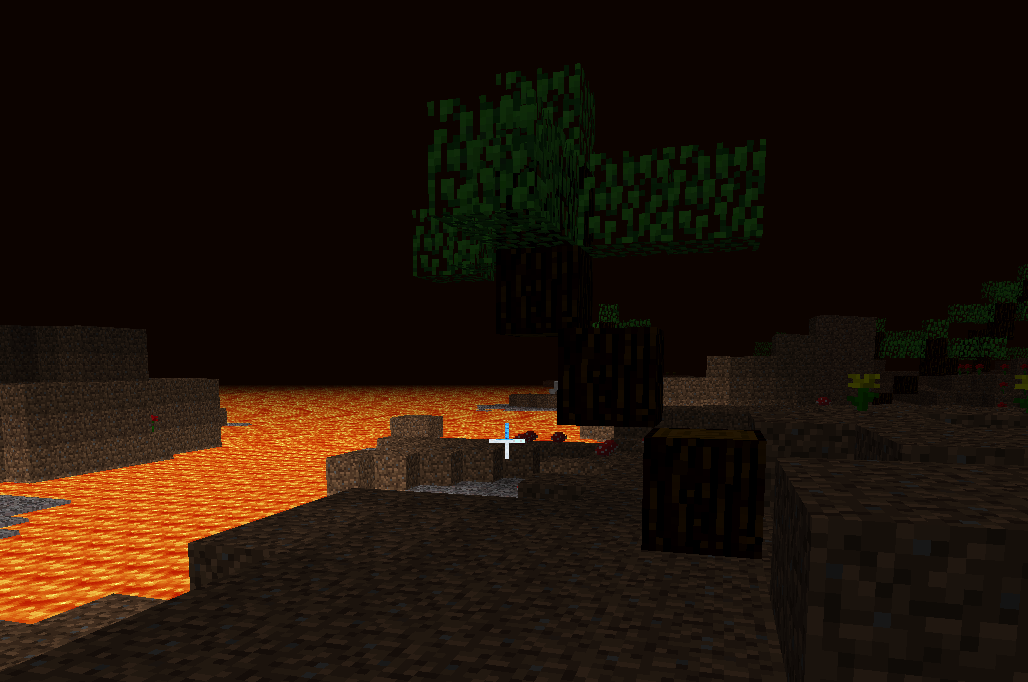
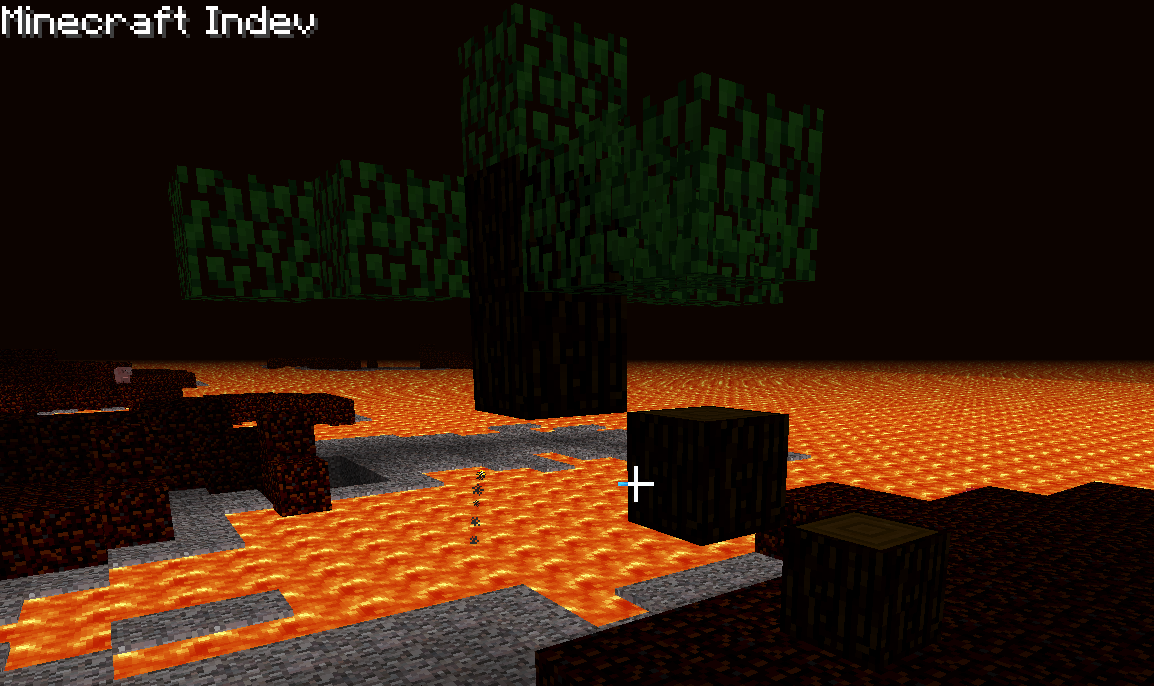
update indevx website

diff --git a/indevx/index.html b/indevx/index.html
@@ -61,11 +61,17 @@
 				- indev house removed<br>
 				- BetaCraft proxy by default<br>
 				- burnt wood that is the default in hell<br>
+				- in hell scorched stone replaces dirt and stone<br>
+				- scorched stone drops stone debris, which can be crafted into cobblestone<br>
 			</p>
 			<h2>Crafting recipes</h2>
 			<img src="burnt_crafting.png">
 			<br><br>
 			<p>Survival in hell is hard, nobody should do it.</p>
+			<br>
+			<img src="stonedebris.png">
+			<br><br>
+			<p>You'll cry</p>
 			<h2>Screenshots</h2>
 			<img src="palm.png">
 			<br><br>
